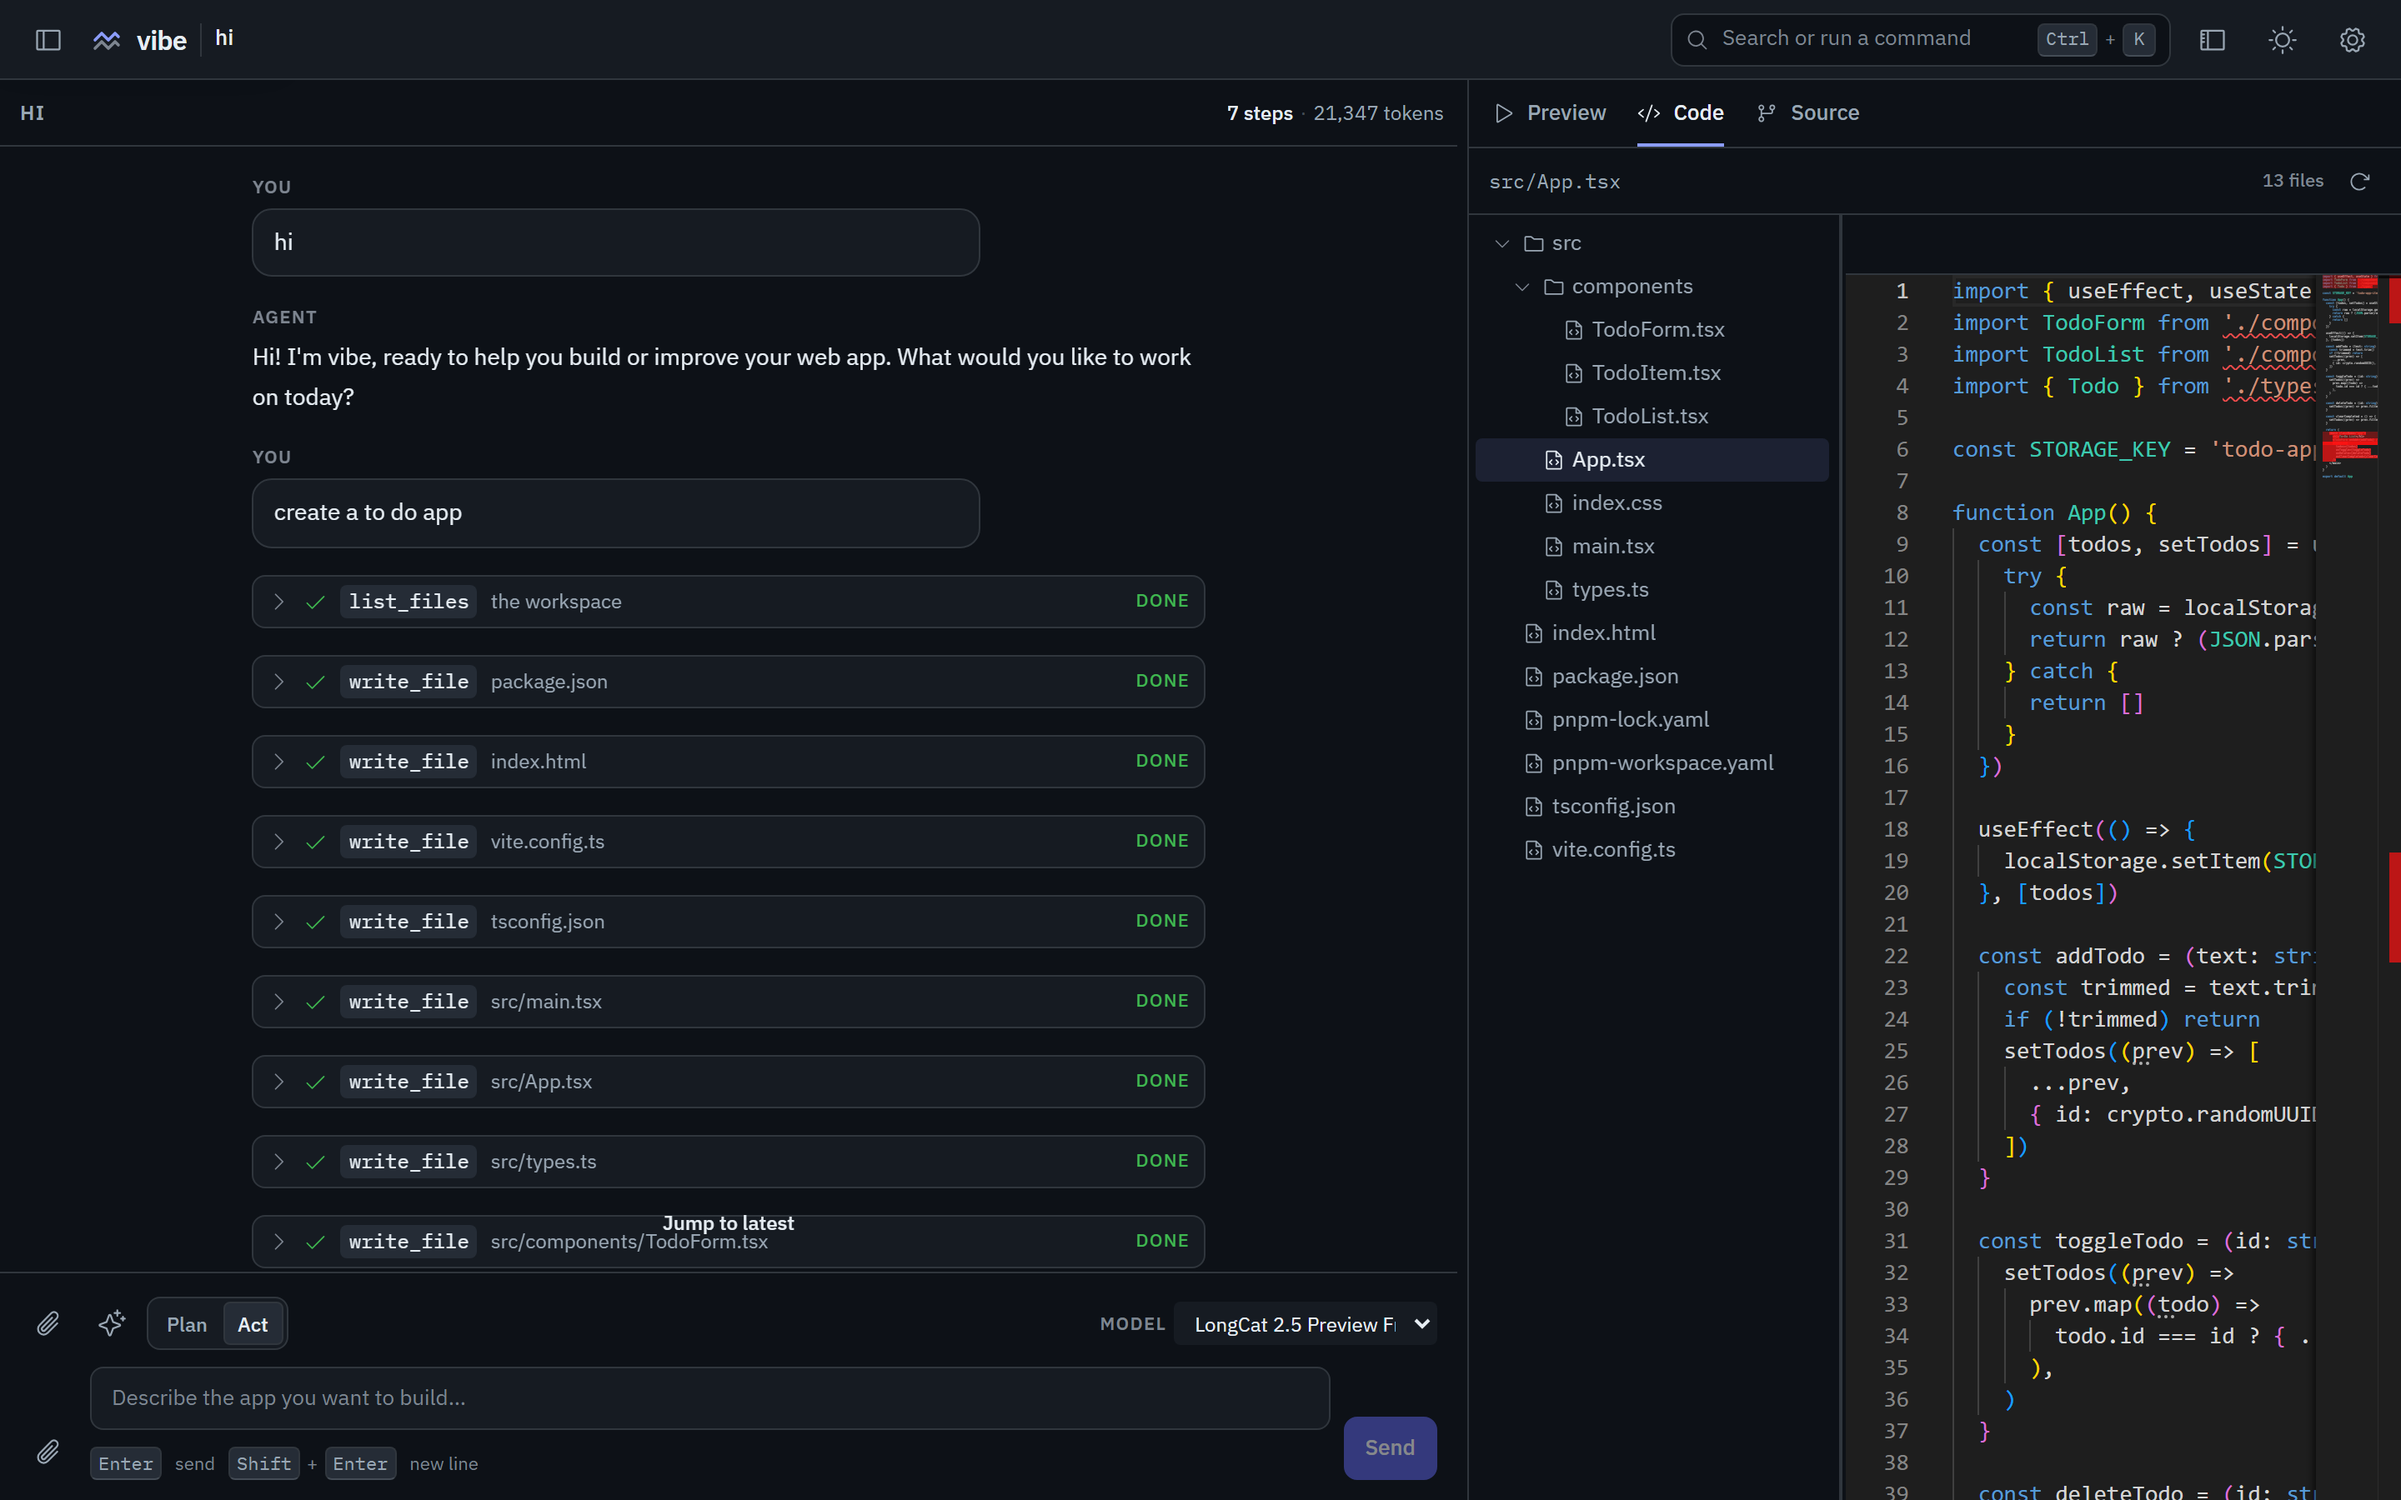
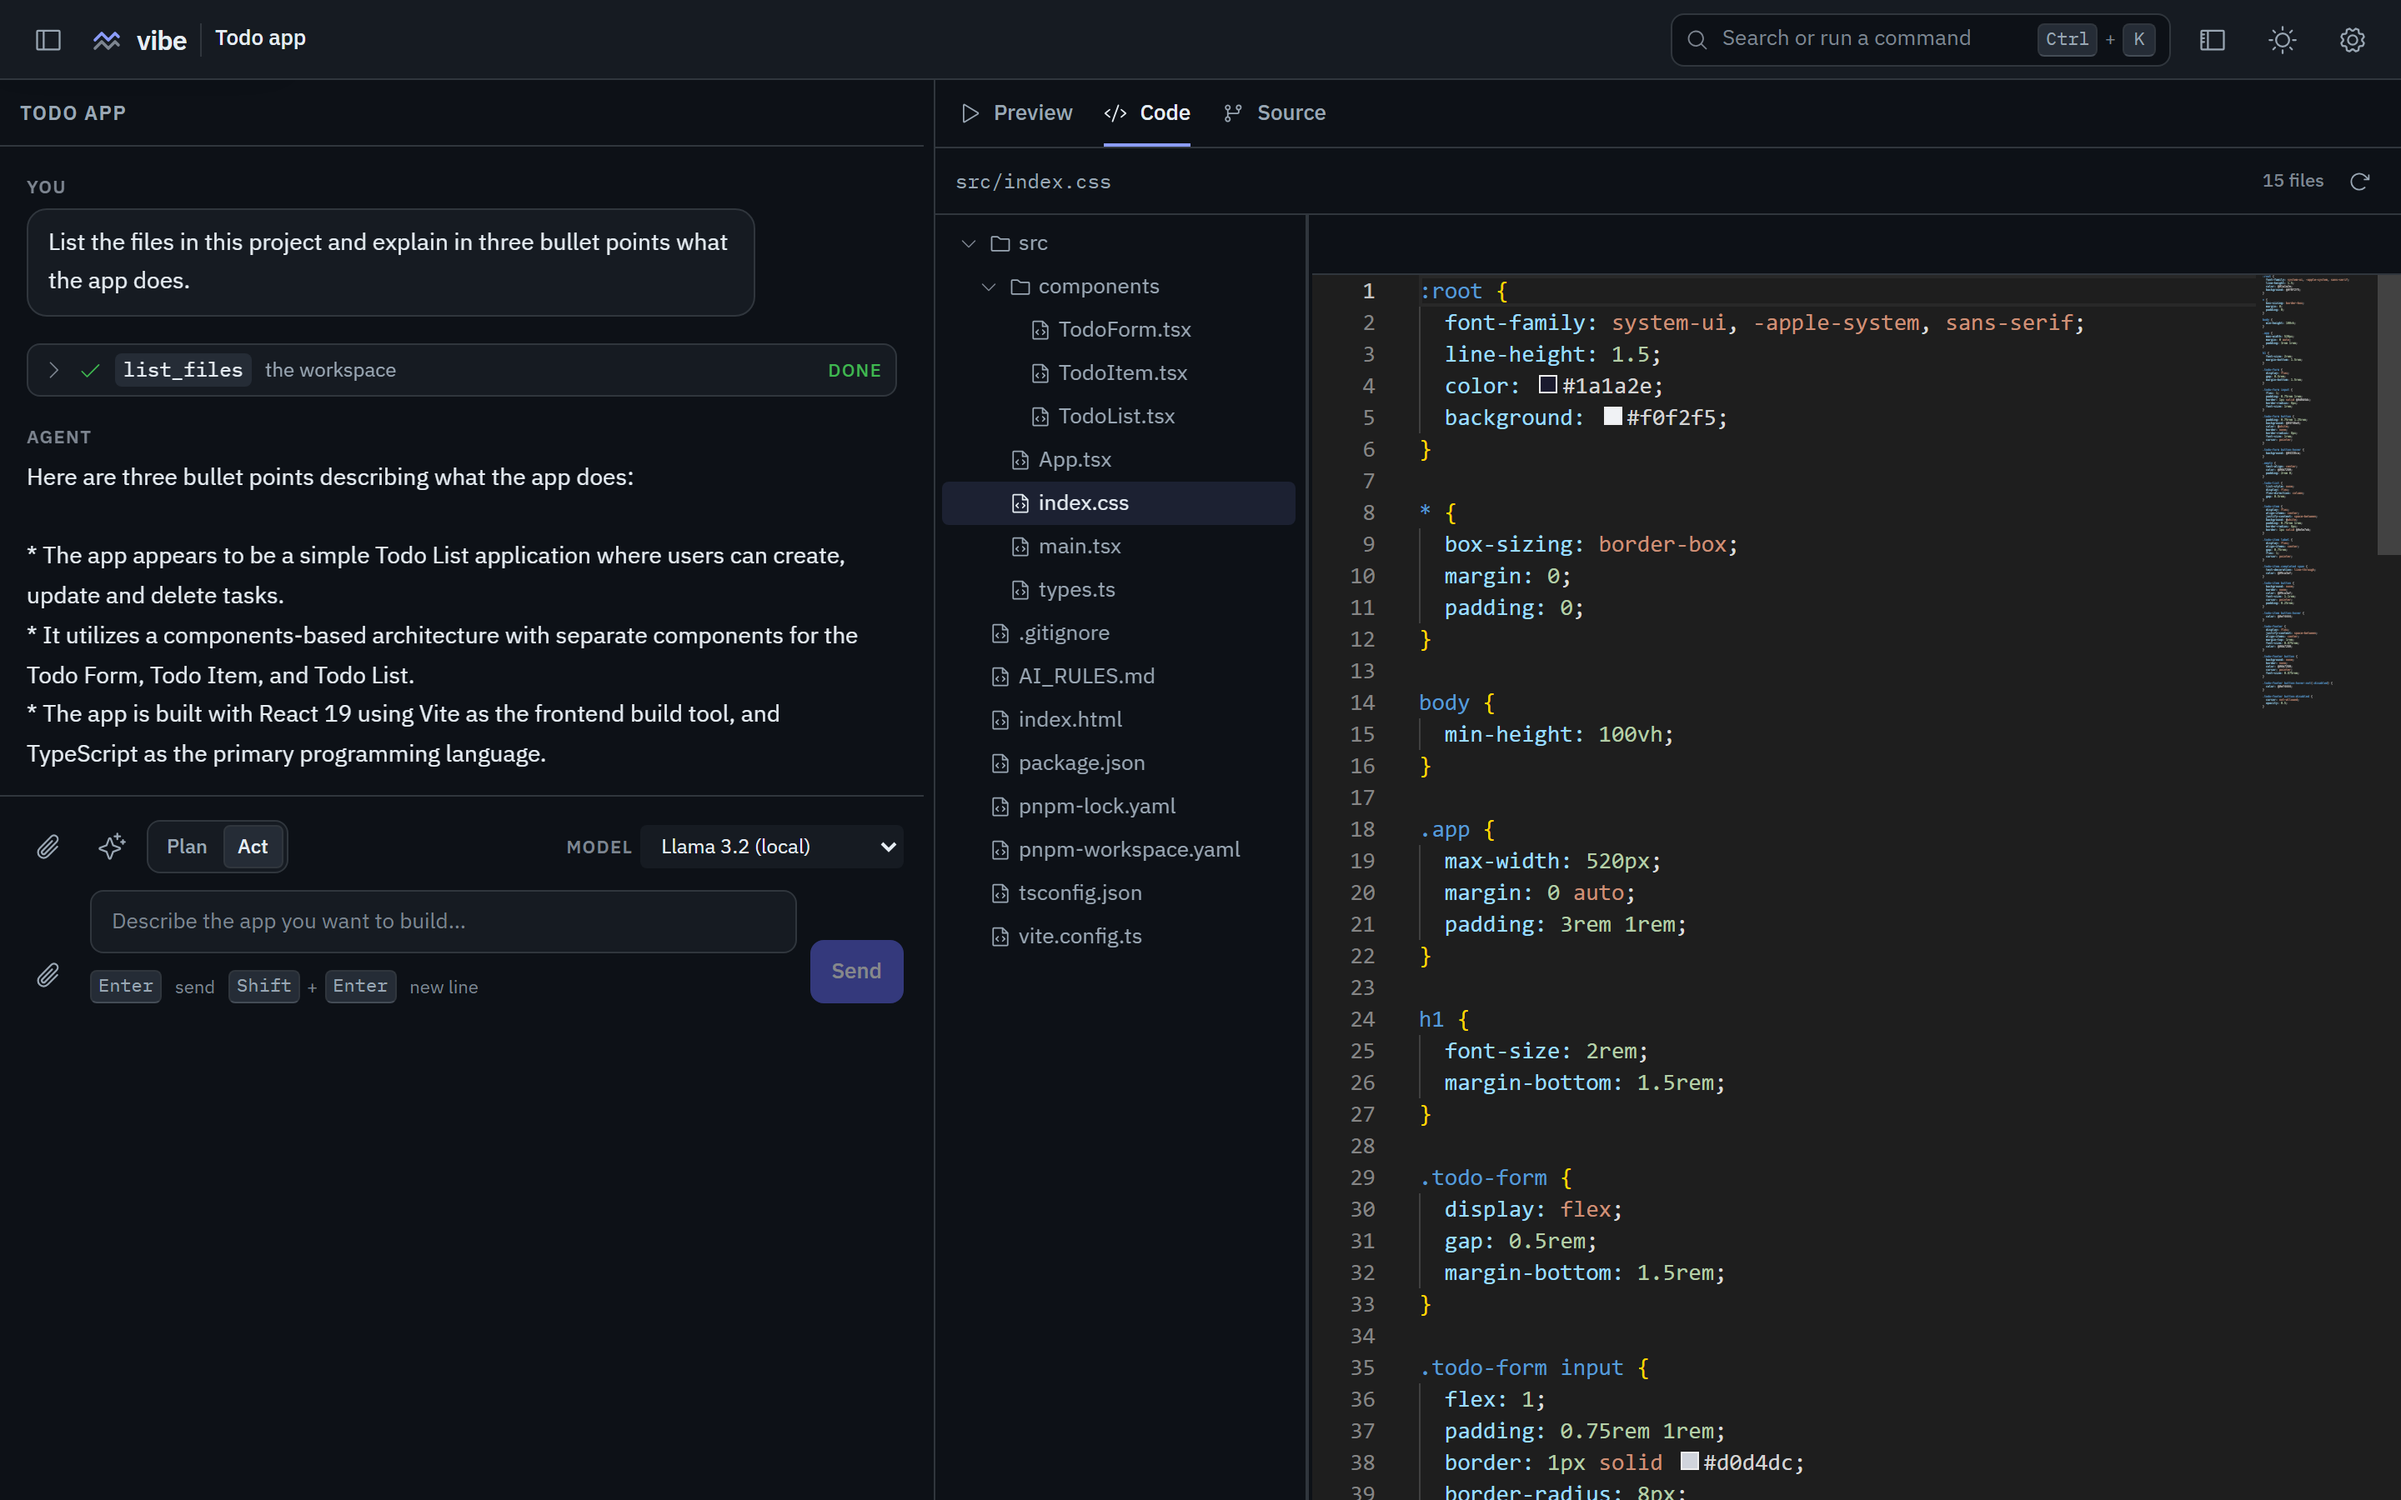
docs: new showcase images from a real session
hero, preview and code-view are captured at 1440x900 @2x from a single real
session (one session in the sidebar, English transcript, the app the agent
built running in the preview). demo.gif is a ten-second loop of that app
being used, converted from a Playwright recording with ffmpeg.

The README gains the loop under the intro and alt text that describes what
is actually in each frame. preview.png is cropped to the app; nothing else
about it changed.

diff --git a/README.md b/README.md
@@ -1,11 +1,11 @@
 # vibe
 
-[![CI](https://github.com/ahmadmhmdsy/vibe/actions/workflows/ci.yml/badge.svg?branch=master)](https://github.com/ahmadmhmdsy/vibe/actions/workflows/ci.yml)
+[![CI](https://github.com/ahmadmhmdsy/vibe/actions/workflows/ci.yml/badge.svg?branch=master)](https://github.com/ahmadmhmdsy/vibe/actions/workflows/ci.yml) [![License: MIT](https://img.shields.io/badge/license-MIT-blue.svg)](LICENSE)
 
 **A local-first vibe-coding IDE.** Describe an app in the chat box; an agent writes it as a
 multi-file React project, installs it, builds it, runs it, and keeps it working in a live preview.
 
-![The vibe IDE: a session list on the left, the agent building a to-do app in a chat-and-tool timeline in the middle, and the generated App.tsx in the source panel on the right](docs/assets/hero.png)
+![The vibe IDE: the session list on the left, the agent's answer in the chat timeline in the middle after it inspected the project, and the running app in the live preview on the right](docs/assets/hero.png)
 
 vibe runs entirely on your machine. The React UI talks to a FastAPI + LangGraph backend that drives
 a real Vite + React + TypeScript project in a workspace directory on disk. You watch the agent's
@@ -19,6 +19,11 @@ configure and the package downloads a generated app needs.
 
 vibe is **Windows-first** today: the one-click launchers are `.bat` files and CI runs on
 `windows-latest`.
+
+![The generated app in the live preview: three tasks typed in, one completed, one deleted](docs/assets/demo.gif)
+
+*No mocks: the app in the panel is a Vite + React project the agent wrote, running in the preview
+iframe while the chat that produced it sits beside it.*
 
 Quick start: [Requirements](#requirements) · [Install](#install) · [Run](#run) ·
 [Local setup guide](docs/guides/local-setup.md)
@@ -39,7 +44,7 @@ The preview panel starts and stops the generated app's Vite dev server, reloads 
 copies the preview URL. While the tab is visible it polls the backend for the server's state, so
 the badge reflects what is actually running.
 
-![Live preview: the to-do app the agent generated running in the preview panel, beside the chat and tool timeline that produced it](docs/assets/preview.png)
+![The generated to-do app in the live preview: three tasks, one completed, the items-left footer and the clear-completed control](docs/assets/preview.png)
 
 ### Code view
 
@@ -47,7 +52,7 @@ The code panel shows the workspace as a file tree beside a Monaco editor. The tr
 the agent writes; edits you save go through the API and are used by the next build. The editor
 follows the app theme.
 
-![Code view: the workspace file tree next to the Monaco editor showing a generated App.tsx](docs/assets/code-view.png)
+![Code view: the workspace file tree next to the Monaco editor, with the generated src/index.css open](docs/assets/code-view.png)
 
 ### Source control
 
@@ -149,7 +154,7 @@ apps/vibe/                 React SPA: src/{app,features,components,lib,hooks,sty
 services/vibe/             FastAPI backend: src/vibe/{api,runtime,executor,tools,providers,
                            autorun,services}, tests/
 docs/                      guides, architecture, reviews, research, design spec
-scripts/                   acceptance-local.ps1, release-check.ps1
+scripts/                   acceptance-local.ps1, release-check.ps1, publish-public.ps1
 .github/workflows/         ci.yml, acceptance.yml
 start.bat  stop.bat  doctor.bat  test.bat
 ```
@@ -390,6 +395,10 @@ not that it works.
   `pnpm typecheck`, `pnpm test:backend`, and `pnpm lint:backend`.
 - Run the acceptance and release checks with PowerShell 7:
   `pwsh -File scripts\acceptance-local.ps1` and `pwsh -File scripts\release-check.ps1`.
+- Publish the public repository with `pwsh -File scripts\publish-public.ps1`. It is the only
+  supported path: the public history is a curated export with the vendored skill packs and internal
+  working files stripped, so pushing this checkout directly is wrong. See
+  **[docs/guides/publishing.md](docs/guides/publishing.md)** before the first publish.
 
 ## Documentation
 
@@ -403,3 +412,9 @@ not that it works.
 - **[Research](docs/research/README.md)** - the competitive analysis behind the roadmap.
 - **[Codebase audit](docs/architecture/2026-10-04-codebase-audit.md)** - the structural audit and the
   findings that shaped the hardening work.
+- **[Publishing](docs/guides/publishing.md)** - maintainers: what the public repository is, how the
+  export is produced, and what to verify after a publish.
+
+## License
+
+MIT - see [LICENSE](LICENSE).
